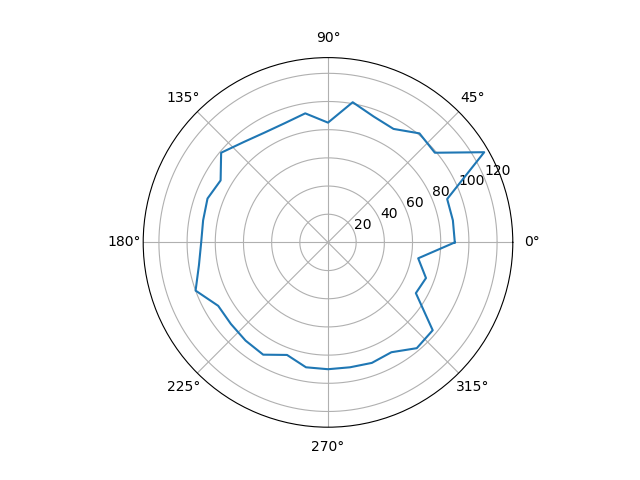
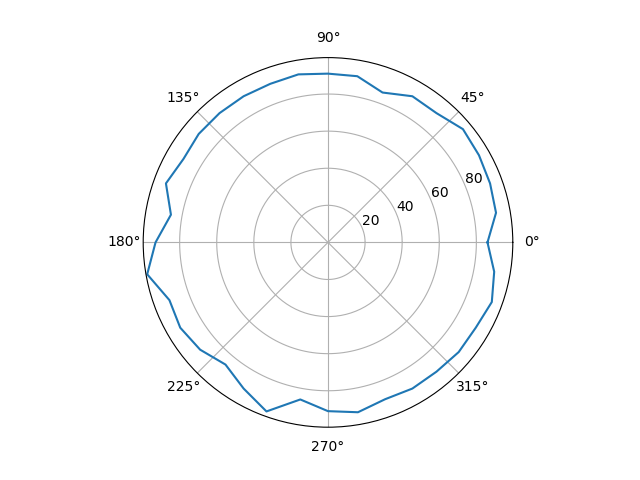
Visualization Server: Updated to ignore values out of range:

diff --git a/VisualizationServer/server.py b/VisualizationServer/server.py
@@ -20,6 +20,20 @@ def addPlot():
     # Convert degrees to radians
     for i in range(0, 36):
         theta[i] = theta[i] * (math.pi / 180)
+    
+    # Remove any point at -1000 value
+    # This means no value was detected in range, and is ingored for graph
+    # Add indices in reverse order to delete from back of list first and no mess with length
+    indicesToRemove = []
+    for i in range(0,36):
+        if(distances[i] < 0):
+            indicesToRemove.insert(0, i)
+    
+    numRemoved = 0
+    for i in range(0, len(indicesToRemove)):
+        distances.remove(i - numRemoved)
+        theta.remove(i - numRemoved)
+        numRemoved += 1
 
     # Complete circle by making a 360 point equal to 0
     # Simply for visualization
